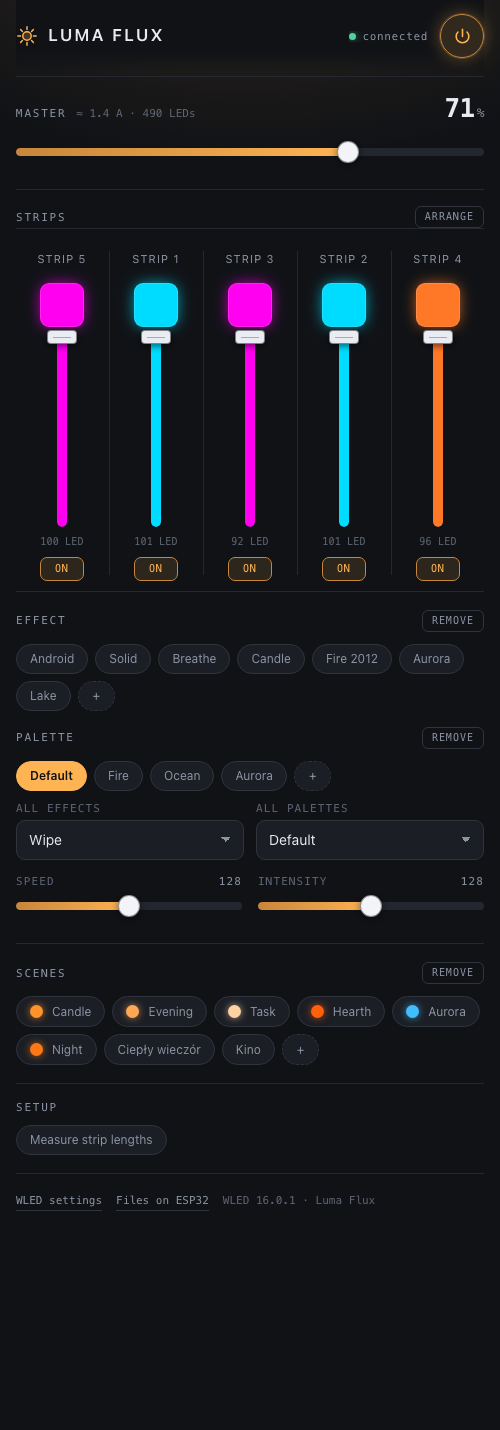
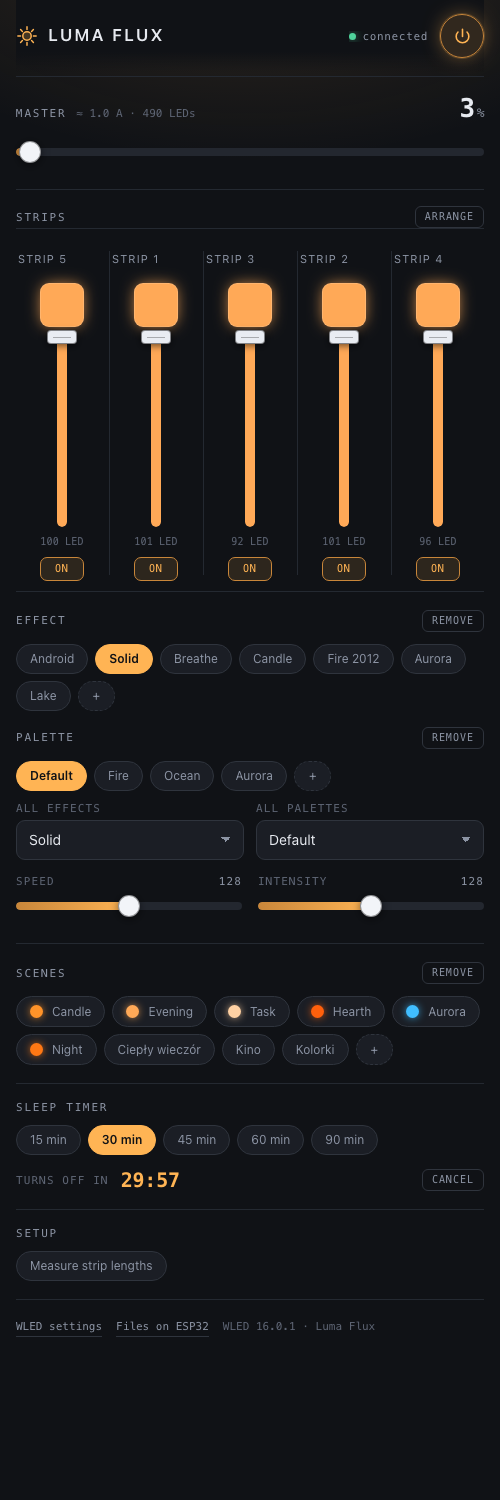
Add a sleep timer, and put the brightness back when it's cancelled
15 to 90 minutes, with a live countdown. This is WLED's nightlight, so
the countdown runs on the lamp and still fires after the page is closed,
and the phone app sees the same timer. Mode 1 fades the light down across
the whole period instead of cutting it at the end.

Cancelling now restores the brightness the timer started from. WLED
leaves the light wherever the fade reached, which is a surprise when you
only meant to call the timer off.

diff --git a/index.pl.htm b/index.pl.htm
@@ -286,6 +286,13 @@ select{
   color:var(--muted);white-space:nowrap}
 .saverow button#scOk{background:var(--accent);color:var(--ground);border-color:var(--accent);font-weight:700}
 .chip.muted{opacity:.35;cursor:default}
+
+/* ---------- sleep timer ---------- */
+.timer-live{display:flex;align-items:center;gap:12px;margin-top:14px;
+  font:11px/1 var(--mono);letter-spacing:.1em;text-transform:uppercase;color:var(--dim)}
+.timer-rem{font:600 20px/1 var(--mono);font-variant-numeric:tabular-nums;
+  letter-spacing:-.01em;color:var(--accent);text-transform:none;min-width:5ch}
+.timer-live .mini{margin-left:auto}
 </style>
 </head>
 <body>
@@ -362,6 +369,15 @@ select{
     <div class="blk-head"><span class="eyebrow">Sceny</span><button class="mini" id="scEdit" hidden aria-pressed="false">Usuń</button></div>
     <div class="chips" id="scenes"></div>
     <div class="saverow" id="scSave" hidden><input type="text" id="scName" maxlength="24" placeholder="Nazwij ten wygląd" aria-label="Nazwij ten wygląd"><button id="scOk">Zapisz</button><button id="scCancel">Anuluj</button></div>
+  </section>
+
+  <section class="block">
+    <span class="eyebrow">Wyłącznik czasowy</span>
+    <div class="chips" id="timerRow"></div>
+    <div class="timer-live" id="timerLive" hidden>
+      <span>Zgaśnie za</span><span class="timer-rem" id="timerRem">--:--</span>
+      <button class="mini" id="timerStop">Anuluj</button>
+    </div>
   </section>
 
   <section class="block">
@@ -548,6 +564,11 @@ function apply(st, force){
   if (!force && Date.now() < quietUntil) return;
   S.on  = !!st.on;
   S.bri = st.bri || 0;
+  if (st.nl) {
+    nl.on  = !!st.nl.on;
+    nl.dur = st.nl.dur || nl.dur;
+    nl.rem = (st.nl.rem == null ? -1 : st.nl.rem);
+  }
   if (st.seg) S.seg = st.seg;
   render();
 }
@@ -565,6 +586,8 @@ function render(){
   $("briVal").textContent = pct;
   setH($("masterBri"), pct);
   $("masterBri").setAttribute("aria-valuenow", pct);
+
+  renderTimer();
 
   var segs = live();
   if (segs.length !== rackBuilt) { buildRack(segs); rackBuilt = segs.length; }
@@ -1295,6 +1318,74 @@ $("scEdit").addEventListener("click", function(){ scDel = !scDel; buildScenes();
 $("scOk").addEventListener("click", presetSave);
 $("scCancel").addEventListener("click", function(){ $("scSave").hidden = true; });
 $("scName").addEventListener("keydown", function(e){ if (e.key === "Enter") presetSave(); });
+
+/* ---------- sleep timer ---------- */
+/* This is WLED's nightlight: the countdown runs on the lamp, so it still turns
+   off after you close the page or leave the house. mode 1 fades the light down
+   over the whole period rather than cutting it at the end. */
+var TIMERS = [15, 30, 45, 60, 90];
+var nl = { on:false, dur:60, rem:-1 };
+
+var nlBriBefore = null;                 // brightness to put back if you cancel
+
+function timerStart(m){
+  if (!nl.on) nlBriBefore = S.bri;      // only on a fresh start, not a re-arm
+  nl.on = true; nl.dur = m; nl.rem = m * 60;
+  renderTimer();
+  send({ nl:{ on:true, dur:m, mode:1, tbri:0 } }, true);
+}
+function timerStop(){
+  nl.on = false; nl.rem = -1;
+  renderTimer();
+  // WLED leaves the light wherever the fade got to, which is a surprise when
+  // you only meant to call the timer off — so put the brightness back.
+  var patch = { nl:{ on:false } };
+  if (nlBriBefore != null && nlBriBefore > S.bri) {
+    patch.bri = nlBriBefore;
+    S.bri = nlBriBefore;
+    render();
+  }
+  nlBriBefore = null;
+  send(patch, true);
+}
+function fmtLeft(sec){
+  if (sec < 0) sec = 0;
+  var h = Math.floor(sec / 3600), m = Math.floor(sec % 3600 / 60), s = sec % 60;
+  var mm = (h && m < 10 ? "0" : "") + m;
+  return (h ? h + ":" : "") + mm + ":" + (s < 10 ? "0" : "") + s;
+}
+function buildTimer(){
+  var row = $("timerRow");
+  row.innerHTML = "";
+  TIMERS.forEach(function(m){
+    var b = document.createElement("button");
+    b.className = "chip";
+    b.dataset.min = m;
+    b.textContent = m + " min";
+    b.setAttribute("aria-pressed", "false");
+    b.addEventListener("click", function(){ timerStart(m); });
+    row.appendChild(b);
+  });
+  renderTimer();
+}
+function renderTimer(){
+  var row = $("timerRow");
+  if (!row) return;
+  var running = nl.on && nl.rem > 0;
+  Array.prototype.forEach.call(row.children, function(c){
+    var on = running && +c.dataset.min === nl.dur;
+    c.setAttribute("aria-pressed", on ? "true" : "false");
+  });
+  $("timerLive").hidden = !running;
+  if (running) $("timerRem").textContent = fmtLeft(nl.rem);
+}
+
+$("timerStop").addEventListener("click", timerStop);
+buildTimer();
+/* tick locally between polls so the countdown doesn't jump in 2.5s steps */
+setInterval(function(){
+  if (nl.on && nl.rem > 0) { nl.rem--; renderTimer(); }
+}, 1000);
 
 pull();
 favLoad();

diff --git a/index.htm b/index.htm
@@ -286,6 +286,13 @@ select{
   color:var(--muted);white-space:nowrap}
 .saverow button#scOk{background:var(--accent);color:var(--ground);border-color:var(--accent);font-weight:700}
 .chip.muted{opacity:.35;cursor:default}
+
+/* ---------- sleep timer ---------- */
+.timer-live{display:flex;align-items:center;gap:12px;margin-top:14px;
+  font:11px/1 var(--mono);letter-spacing:.1em;text-transform:uppercase;color:var(--dim)}
+.timer-rem{font:600 20px/1 var(--mono);font-variant-numeric:tabular-nums;
+  letter-spacing:-.01em;color:var(--accent);text-transform:none;min-width:5ch}
+.timer-live .mini{margin-left:auto}
 </style>
 </head>
 <body>
@@ -362,6 +369,15 @@ select{
     <div class="blk-head"><span class="eyebrow">Scenes</span><button class="mini" id="scEdit" hidden aria-pressed="false">Remove</button></div>
     <div class="chips" id="scenes"></div>
     <div class="saverow" id="scSave" hidden><input type="text" id="scName" maxlength="24" placeholder="Name this look" aria-label="Name this look"><button id="scOk">Save</button><button id="scCancel">Cancel</button></div>
+  </section>
+
+  <section class="block">
+    <span class="eyebrow">Sleep timer</span>
+    <div class="chips" id="timerRow"></div>
+    <div class="timer-live" id="timerLive" hidden>
+      <span>Turns off in</span><span class="timer-rem" id="timerRem">--:--</span>
+      <button class="mini" id="timerStop">Cancel</button>
+    </div>
   </section>
 
   <section class="block">
@@ -548,6 +564,11 @@ function apply(st, force){
   if (!force && Date.now() < quietUntil) return;
   S.on  = !!st.on;
   S.bri = st.bri || 0;
+  if (st.nl) {
+    nl.on  = !!st.nl.on;
+    nl.dur = st.nl.dur || nl.dur;
+    nl.rem = (st.nl.rem == null ? -1 : st.nl.rem);
+  }
   if (st.seg) S.seg = st.seg;
   render();
 }
@@ -565,6 +586,8 @@ function render(){
   $("briVal").textContent = pct;
   setH($("masterBri"), pct);
   $("masterBri").setAttribute("aria-valuenow", pct);
+
+  renderTimer();
 
   var segs = live();
   if (segs.length !== rackBuilt) { buildRack(segs); rackBuilt = segs.length; }
@@ -1295,6 +1318,74 @@ $("scEdit").addEventListener("click", function(){ scDel = !scDel; buildScenes();
 $("scOk").addEventListener("click", presetSave);
 $("scCancel").addEventListener("click", function(){ $("scSave").hidden = true; });
 $("scName").addEventListener("keydown", function(e){ if (e.key === "Enter") presetSave(); });
+
+/* ---------- sleep timer ---------- */
+/* This is WLED's nightlight: the countdown runs on the lamp, so it still turns
+   off after you close the page or leave the house. mode 1 fades the light down
+   over the whole period rather than cutting it at the end. */
+var TIMERS = [15, 30, 45, 60, 90];
+var nl = { on:false, dur:60, rem:-1 };
+
+var nlBriBefore = null;                 // brightness to put back if you cancel
+
+function timerStart(m){
+  if (!nl.on) nlBriBefore = S.bri;      // only on a fresh start, not a re-arm
+  nl.on = true; nl.dur = m; nl.rem = m * 60;
+  renderTimer();
+  send({ nl:{ on:true, dur:m, mode:1, tbri:0 } }, true);
+}
+function timerStop(){
+  nl.on = false; nl.rem = -1;
+  renderTimer();
+  // WLED leaves the light wherever the fade got to, which is a surprise when
+  // you only meant to call the timer off — so put the brightness back.
+  var patch = { nl:{ on:false } };
+  if (nlBriBefore != null && nlBriBefore > S.bri) {
+    patch.bri = nlBriBefore;
+    S.bri = nlBriBefore;
+    render();
+  }
+  nlBriBefore = null;
+  send(patch, true);
+}
+function fmtLeft(sec){
+  if (sec < 0) sec = 0;
+  var h = Math.floor(sec / 3600), m = Math.floor(sec % 3600 / 60), s = sec % 60;
+  var mm = (h && m < 10 ? "0" : "") + m;
+  return (h ? h + ":" : "") + mm + ":" + (s < 10 ? "0" : "") + s;
+}
+function buildTimer(){
+  var row = $("timerRow");
+  row.innerHTML = "";
+  TIMERS.forEach(function(m){
+    var b = document.createElement("button");
+    b.className = "chip";
+    b.dataset.min = m;
+    b.textContent = m + " min";
+    b.setAttribute("aria-pressed", "false");
+    b.addEventListener("click", function(){ timerStart(m); });
+    row.appendChild(b);
+  });
+  renderTimer();
+}
+function renderTimer(){
+  var row = $("timerRow");
+  if (!row) return;
+  var running = nl.on && nl.rem > 0;
+  Array.prototype.forEach.call(row.children, function(c){
+    var on = running && +c.dataset.min === nl.dur;
+    c.setAttribute("aria-pressed", on ? "true" : "false");
+  });
+  $("timerLive").hidden = !running;
+  if (running) $("timerRem").textContent = fmtLeft(nl.rem);
+}
+
+$("timerStop").addEventListener("click", timerStop);
+buildTimer();
+/* tick locally between polls so the countdown doesn't jump in 2.5s steps */
+setInterval(function(){
+  if (nl.on && nl.rem > 0) { nl.rem--; renderTimer(); }
+}, 1000);
 
 pull();
 favLoad();

diff --git a/README.pl.md b/README.pl.md
@@ -145,6 +145,17 @@ Nazwy i kolejność siedzą w `/favs.json` na lampce, obok zapisanych kolorów.
 Nazwy trafiają dodatkowo do samego WLED, więc pokazuje je też wbudowany panel
 i aplikacja na telefon.
 
+## Samoczynne gaśnięcie
+
+Rząd *Wyłącznik czasowy* ustawia zwłokę — od 15 do 90 minut. Światło przygasa
+stopniowo przez cały ten czas, zamiast zgasnąć nagle na końcu, a odczyt pokazuje,
+ile zostało. **Anuluj** odwołuje timer i przywraca jasność sprzed jego
+uruchomienia.
+
+Odliczanie chodzi na lampce, a nie w przeglądarce, więc zadziała także po
+zamknięciu karty albo wyjściu z domu. Pod spodem to nightlight z WLED, więc ten
+sam timer widzi i obsługuje aplikacja na telefon.
+
 ## Zapisywanie wyglądu
 
 **+** na końcu rzędu *Sceny* zapisuje wszystko, co jest teraz na ekranie —

diff --git a/README.md b/README.md
@@ -144,6 +144,17 @@ Names and the order live in `/favs.json` on the lamp, alongside the saved
 colours. Names are also pushed to WLED itself, so the stock panel and the phone
 app show them too.
 
+## Turning off by itself
+
+The *Sleep timer* row sets a delay — 15 to 90 minutes. The light fades down
+over the whole period rather than cutting out at the end, and a readout shows
+how long is left. **Cancel** calls it off and puts the brightness back where it
+was.
+
+The countdown runs on the lamp, not in the page, so it still happens after you
+close the browser or leave the house. It is WLED's nightlight underneath, so
+the phone app shows and controls the same timer.
+
 ## Saving a look
 
 **+** at the end of the *Scenes* row saves everything on screen right now —
